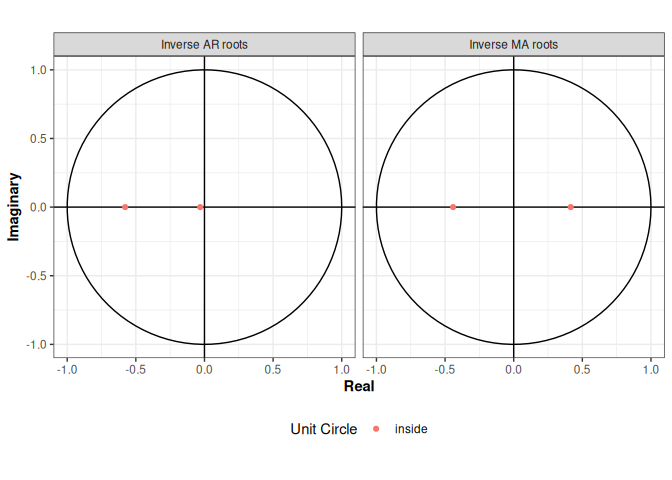
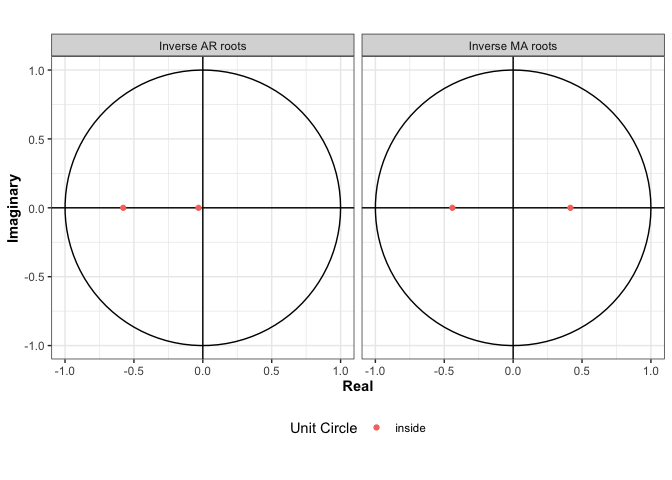
Bumped package version to development version

diff --git a/README.md b/README.md
@@ -89,7 +89,7 @@ function will return the AR or MA polynomial roots of the fitted model:
 
 ``` r
 ARMApolyroots(arma2, type = 'AR')
-#> [1]  1.206337+0i 52.741787+0i
+#> [1]  1.206337-2.524355e-29i 52.741787+2.524355e-29i
 ARMApolyroots(arma2, type = 'MA')
 #> [1] 1.171567+0.4408999i 1.171567-0.4408999i
 ```
@@ -132,7 +132,7 @@ tab_results |> knitr::kable()
 |:----|---------:|---------:|---------:|---------:|---------:|
 | AR0 | 278.5279 | 251.2556 | 251.1541 | 252.7329 | 247.8627 |
 | AR1 | 252.4657 | 251.2814 | 248.2125 | 250.2045 | 249.8406 |
-| AR2 | 252.6433 | 251.2406 | 250.2017 | 245.6773 | 251.2409 |
+| AR2 | 252.6433 | 251.2406 | 250.2017 | 245.6692 | 251.2409 |
 | AR3 | 251.2595 | 253.2591 | 251.3298 | 251.2216 | 250.2504 |
 | AR4 | 253.2583 | 248.2554 | 249.8175 | 252.3539 | 248.6465 |
 
